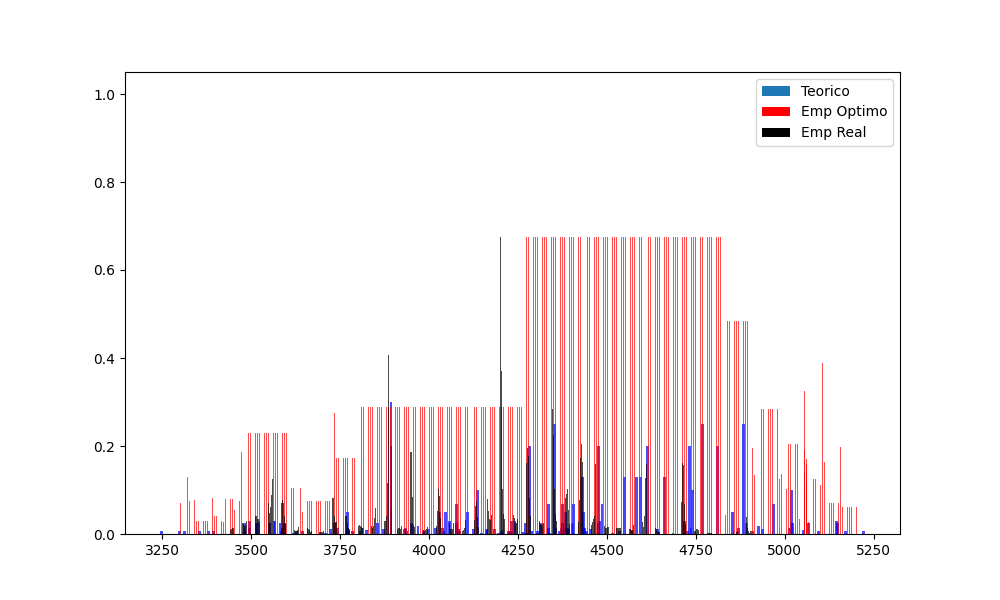
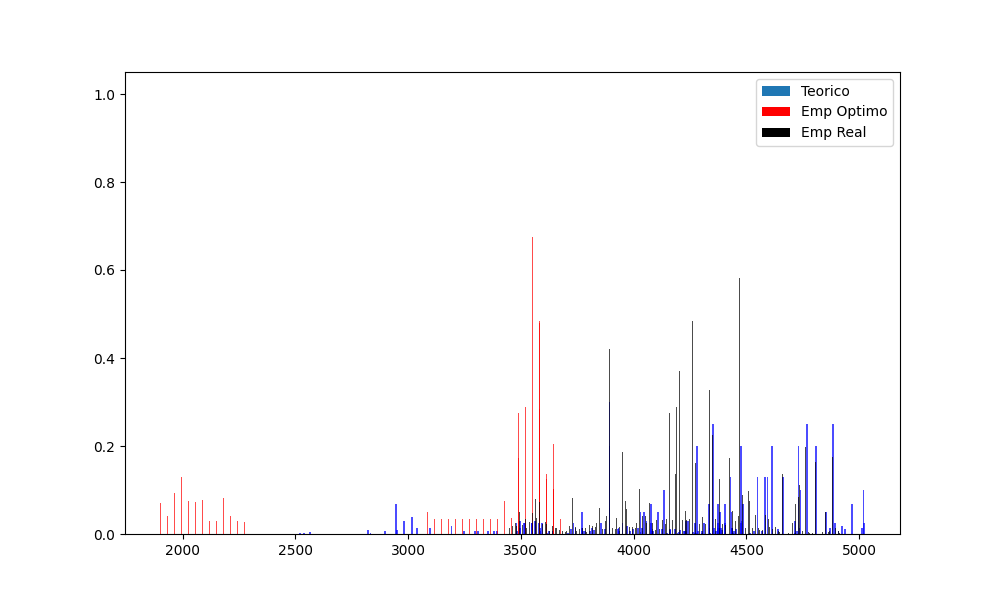
BugFix

Changed region(s): [[0.155, 0.39, 0.899, 0.93]]

diff --git a/DTWPorVentanasEmp(pic)_ERM.py b/DTWPorVentanasEmp(pic)_ERM.py
@@ -10,7 +10,7 @@ De cada archivo almacenar:
 """
 import os
 import mplcursors
-from EM import ELM, ERM
+from EM import EAM, ERM
 from DTW import DTW
 from IOU import IoU
 import pandas as pd
@@ -46,12 +46,12 @@ def calibrate_for_windows(teo_slices_x:list, teo_slices_y:list, obs_y:list, obs_
         # Determinación de la metrica IoU
         Iou = IoU(teo_slices_x[i][0], teo_slices_x[i][-1], obs_long_min, obs_long_max)
         
-        ElM = ELM(obs_y, teo_slices_y[i])
+        EaM = EAM(obs_y, teo_slices_y[i])
         
         ErM = ERM(obs_y, teo_slices_y[i])
         
         # Agrupación de los datos relevantes de la calibración en un objeto y agregado a la lista calibrations
-        Calibrations.append(Calibration(arr_X=cal_X, arr_Y=cal_Y, IoU=Iou, NaC=NorAlgCos, ElM=ElM, ErM=ErM))
+        Calibrations.append(Calibration(arr_X=cal_X, arr_Y=cal_Y, IoU=Iou, NaC=NorAlgCos, EaM=EaM, ErM=ErM))
 
     return Calibrations
 
@@ -96,8 +96,8 @@ teo_y, _, _ = normalize_min_max(target=teo_y)
 # Recorte de los datos del teorico en conjuntos de ventanas
 ranges, slices_x, slices_y = slice_with_range_step(teo_x, teo_y, W_RANGE, W_STEP)
 
-# Gaussianizado y normalizado de los recortes del teorico
-slices_x, slices_y = gaussianice_arr(slices_x, slices_y, RESOLUTION, SIGMA, ranges, normalize=False)
+# # Gaussianizado y normalizado de los recortes del teorico
+# slices_x, slices_y = gaussianice_arr(slices_x, slices_y, RESOLUTION, SIGMA, ranges, normalize=False)
 
 # Declaración de diccionario donde se guardaran los datos a almacenar
 metrics = {
@@ -111,7 +111,7 @@ metrics = {
     "HEIGHT": [],
     "IoU_mejor_ventana": [],
     "NAC_mejor_ventana": [],
-    "ELM_mejor_ventana": [],
+    "EAM_mejor_ventana": [],
     "ERM_mejor_ventana": []
 }
 
@@ -139,8 +139,11 @@ for filename in tqdm(FILES, desc=f'Porcentaje de avance'):
     picos_x, _ = find_peaks(obs_y, height=HEIGHT)
     picos_y = obs_y[picos_x]
     
+    # Suavizado de las ventanas acorde a la cantidad de picos a emplear
+    slices_x_sua, slices_y_sua = gaussianice_arr(slices_x, slices_y, len(picos_y), SIGMA, ranges, normalize=False)
+    
     # Calibrado por ventanas y obtencion de resultados
-    calibrations = calibrate_for_windows(slices_x, slices_y, picos_y, obs_long_min, obs_long_max)
+    calibrations = calibrate_for_windows(slices_x_sua, slices_y_sua, picos_y, obs_long_min, obs_long_max)
     
     # Busqueda de la mejor calibración
     best_calibration = None
@@ -153,7 +156,7 @@ for filename in tqdm(FILES, desc=f'Porcentaje de avance'):
     # Acomodado de los datos en el formato adecuado
     metrics["ID"].append(filename)
     metrics["Cant_Picos_Detectados"].append(len(picos_x))
-    metrics["Cant_Ventanas_Probadas"].append(len(slices_x))
+    metrics["Cant_Ventanas_Probadas"].append(len(slices_x_sua))
     metrics["SIGMA"].append(SIGMA)
     metrics["W_STEP"].append(W_STEP)
     metrics["W_RANGE"].append(W_RANGE)
@@ -161,7 +164,7 @@ for filename in tqdm(FILES, desc=f'Porcentaje de avance'):
     metrics["HEIGHT"].append(HEIGHT)
     metrics["IoU_mejor_ventana"].append(best_calibration.IoU)
     metrics["NAC_mejor_ventana"].append(best_calibration.NaC)
-    metrics["ELM_mejor_ventana"].append(best_calibration.ElM)
+    metrics["EAM_mejor_ventana"].append(best_calibration.EaM)
     metrics["ERM_mejor_ventana"].append(best_calibration.ErM)
     
     # Ajusta el tamaño de figura para graficado
@@ -200,6 +203,10 @@ for filename in tqdm(FILES, desc=f'Porcentaje de avance'):
     plt.savefig(save_location)
     #plt.show()
     plt.close()
+    
+    # Corte temprano para etapas de prueba
+    if (filename=="WCOMP02.fits"):
+        break
     
 # Crear un DataFrame con los datos
 df = pd.DataFrame(metrics)

diff --git a/DTWPorVentanasEmp(pic)_EAM.py b/DTWPorVentanasEmp(pic)_EAM.py
@@ -95,9 +95,6 @@ teo_y, _, _ = normalize_min_max(target=teo_y)
 # Recorte de los datos del teorico en conjuntos de ventanas
 ranges, slices_x, slices_y = slice_with_range_step(teo_x, teo_y, W_RANGE, W_STEP)
 
-# Gaussianizado y normalizado de los recortes del teorico
-slices_x, slices_y = gaussianice_arr(slices_x, slices_y, RESOLUTION, SIGMA, ranges, normalize=False)
-
 # Declaración de diccionario donde se guardaran los datos a almacenar
 metrics = {
     "ID": [],
@@ -137,21 +134,24 @@ for filename in tqdm(FILES, desc=f'Porcentaje de avance'):
     picos_x, _ = find_peaks(obs_y, height=HEIGHT)
     picos_y = obs_y[picos_x]
     
+    # Suavizado de las ventanas acorde a la cantidad de picos a emplear
+    slices_x_sua, slices_y_sua = gaussianice_arr(slices_x, slices_y, len(picos_y), SIGMA, ranges, normalize=False)
+    
     # Calibrado por ventanas y obtencion de resultados
-    calibrations = calibrate_for_windows(slices_x, slices_y, picos_y, obs_long_min, obs_long_max)
+    calibrations = calibrate_for_windows(slices_x_sua, slices_y_sua, picos_y, obs_long_min, obs_long_max)
     
     # Busqueda de la mejor calibración
     best_calibration = None
-    best_ELM = float('inf')
+    best_EAM = float('inf')
     for i in range(len(calibrations)):
-        if (best_ELM > calibrations[i].ElM):
-            best_ELM = calibrations[i].ElM
+        if (best_EAM > calibrations[i].EaM):
+            best_EAM = calibrations[i].EaM
             best_calibration = calibrations[i]
     
     # Acomodado de los datos en el formato adecuado
     metrics["ID"].append(filename)
     metrics["Cant_Picos_Detectados"].append(len(picos_x))
-    metrics["Cant_Ventanas_Probadas"].append(len(slices_x))
+    metrics["Cant_Ventanas_Probadas"].append(len(slices_x_sua))
     metrics["SIGMA"].append(SIGMA)
     metrics["W_STEP"].append(W_STEP)
     metrics["W_RANGE"].append(W_RANGE)
@@ -197,6 +197,10 @@ for filename in tqdm(FILES, desc=f'Porcentaje de avance'):
     plt.savefig(save_location)
     #plt.show()
     plt.close()
+    
+    # Corte temprano para etapas de prueba
+    if (filename=="WCOMP02.fits"):
+        break
     
 # Crear un DataFrame con los datos
 df = pd.DataFrame(metrics)
